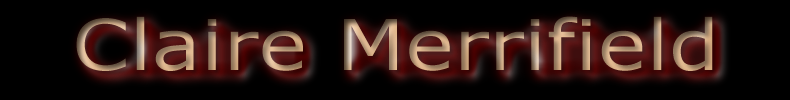
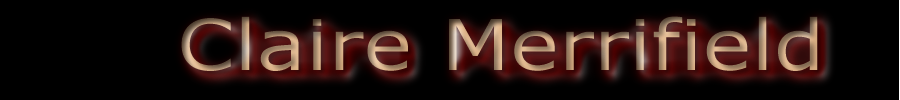
changed style sheet to jm to try it out

diff --git a/index.html b/index.html
@@ -15,7 +15,7 @@ carrying out post Doctorate research at Imperial College, London." >
 <div class ="content" > <a name="top"></a>
 <div class = "header">
 <a href="mailto:c.merrifield07@imperial.ac.uk "
-Title="Claire Email"><img src="Claire.jpg" alt="claire email" class ="claire"></a>
+Title="Claire Email"><img src="Claire.jpg" alt="Claire Email" class ="claire"></a>
 
 
 
@@ -37,7 +37,7 @@ Title="Claire Email"><img src="Claire.jpg" alt="claire email" class ="claire"></
 <h3>Publications</h3>
 
             <a href="A metabolic system-wide characterisation of the pig- a model for human physiology_PUBLISHED.pdf"
-Title="A metabolic system-wide characterisation of the pig- a model
+Title="Download: A metabolic system-wide characterisation of the pig- a model
  for human physiology_PUBLISHED"><img src="paper.png" 
 alt="Download: A metabolic system-wide characterisation of the pig- a model for human physiology_PUBLISHED"
 class="paper"></a> 

diff --git a/cm1.css b/cm1.css
@@ -45,8 +45,8 @@ div.links a {
 div.links a:hover {
 	color: #F93; border-color: #F93;
 }
-img.claire {
- border: 1px solid #FFCC99;
+image.claire {
+ border: 1px solid #FFCC99; padding: 0 0 0 30px;
 }
 imge#chalint {
 	float:left;
@@ -66,11 +66,11 @@ image#seminar {
 image#teamrear {
 	float:left;margin: 1.2em 10px 0 0;
 }
-image#teamfront {
-	float:left; margin: 1.1em 10px 0 0;
+image.paper {
+padding: 0 0 0 30px;
 }
 image#mast {
-	position: absolute; border-width: 0; margin-left: 142px; left: 142px;
+	position: absolute;
 }
 image.fleft {
 	float:left; margin 1.1em 10px 0 0
